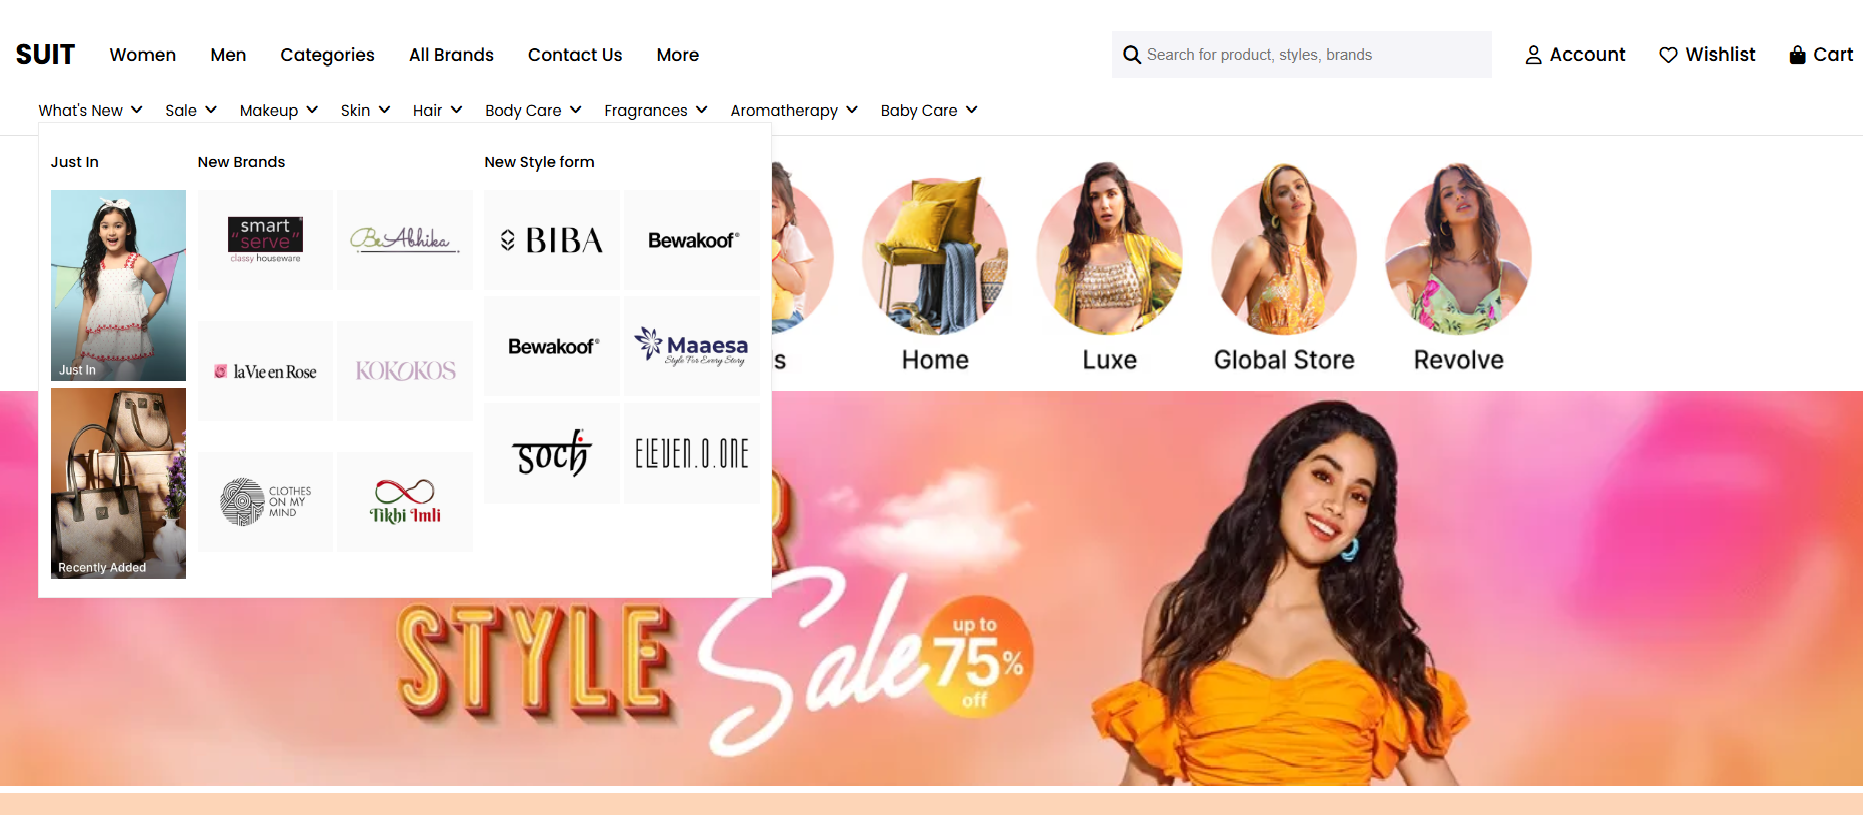
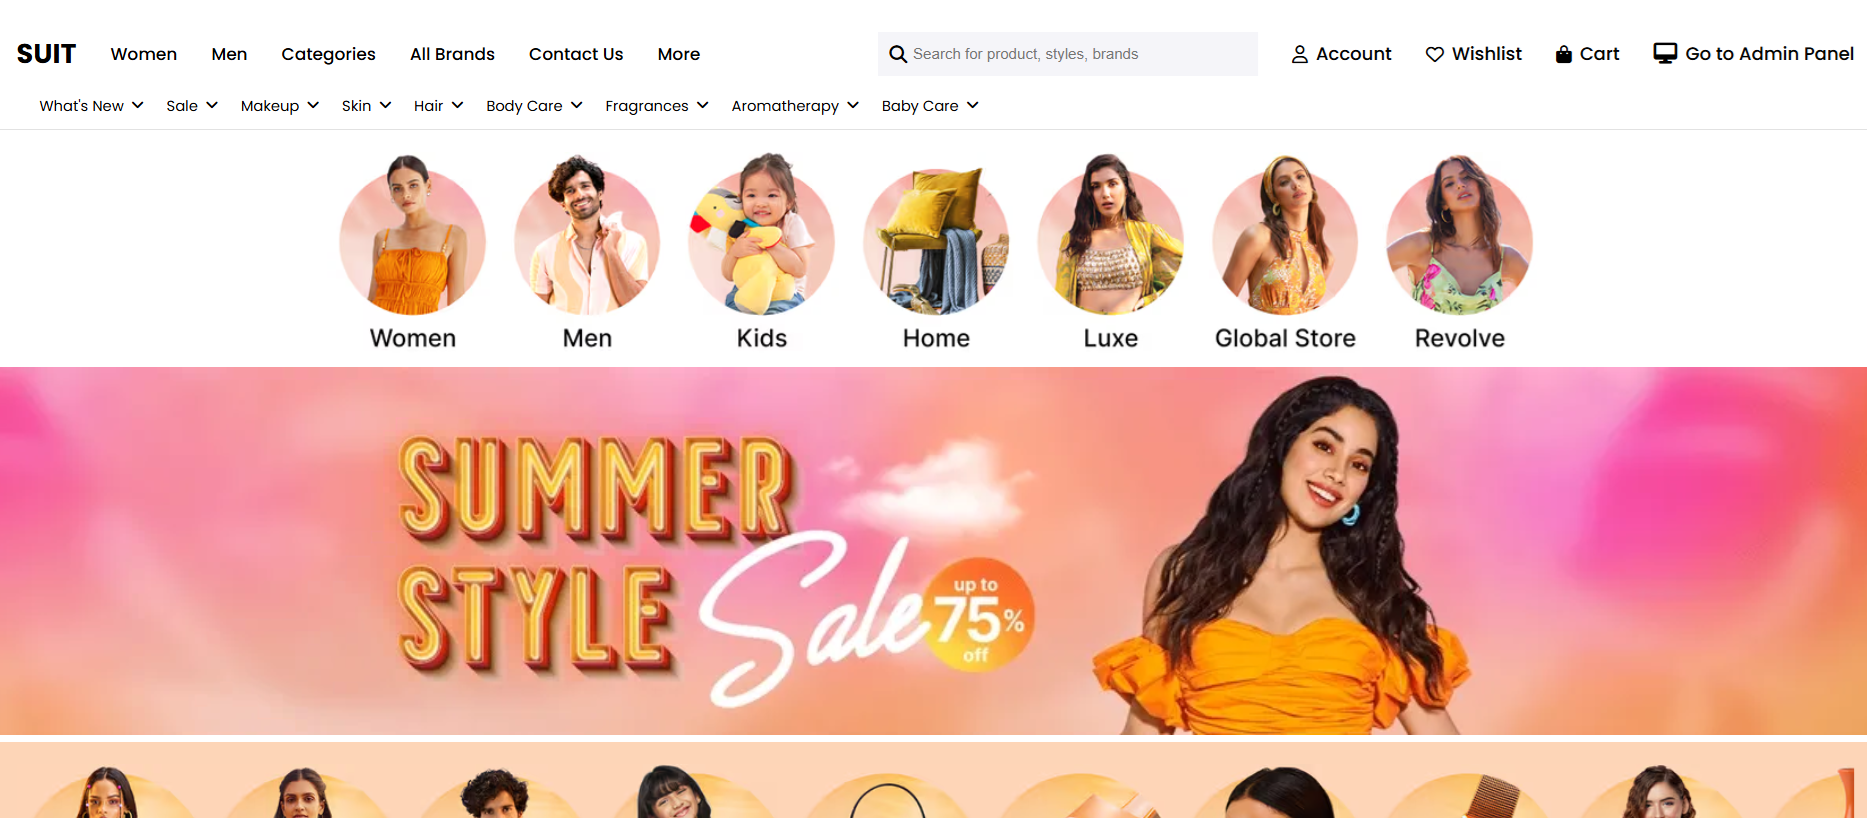
Updated website

diff --git a/index.html b/index.html
@@ -67,8 +67,13 @@
             <i class="fa-solid fa-bag-shopping"></i>
             <p>Cart</p>
           </div></a>
-        </div>
-      </div>
+          <a href="admin.html" class="accountLink">
+            <i class="fa fa-desktop" style="font-size:19px"></i>
+            <p>Go to Admin Panel</p>
+        </a>        
+   
+     </div>
+    </div>
 
       <div class="subNavigation">
         <ul>
@@ -358,6 +363,7 @@
 
     <div class="col">
         <h4>My Account</h4>
+        <a href="admin.html">Go to Admin Panel</a>
         <a href="#">Sign In</a>
         <a href="cart.html">View Cart</a>
         <a href="#">My Wishlist</a>

diff --git a/user.css b/user.css
@@ -61,11 +61,14 @@ header .right{
     width: 100%;
     max-width: 700px;
 }
-.accountLink{
+
+.accountLink {
     display: flex;
     align-items: center;
     gap: 7px;
     font-weight: 500;
+    text-decoration: none; /* Optional: removes underline */
+    color: inherit; /* Optional: matches the text color */
 }
 
 .subNavigation{
